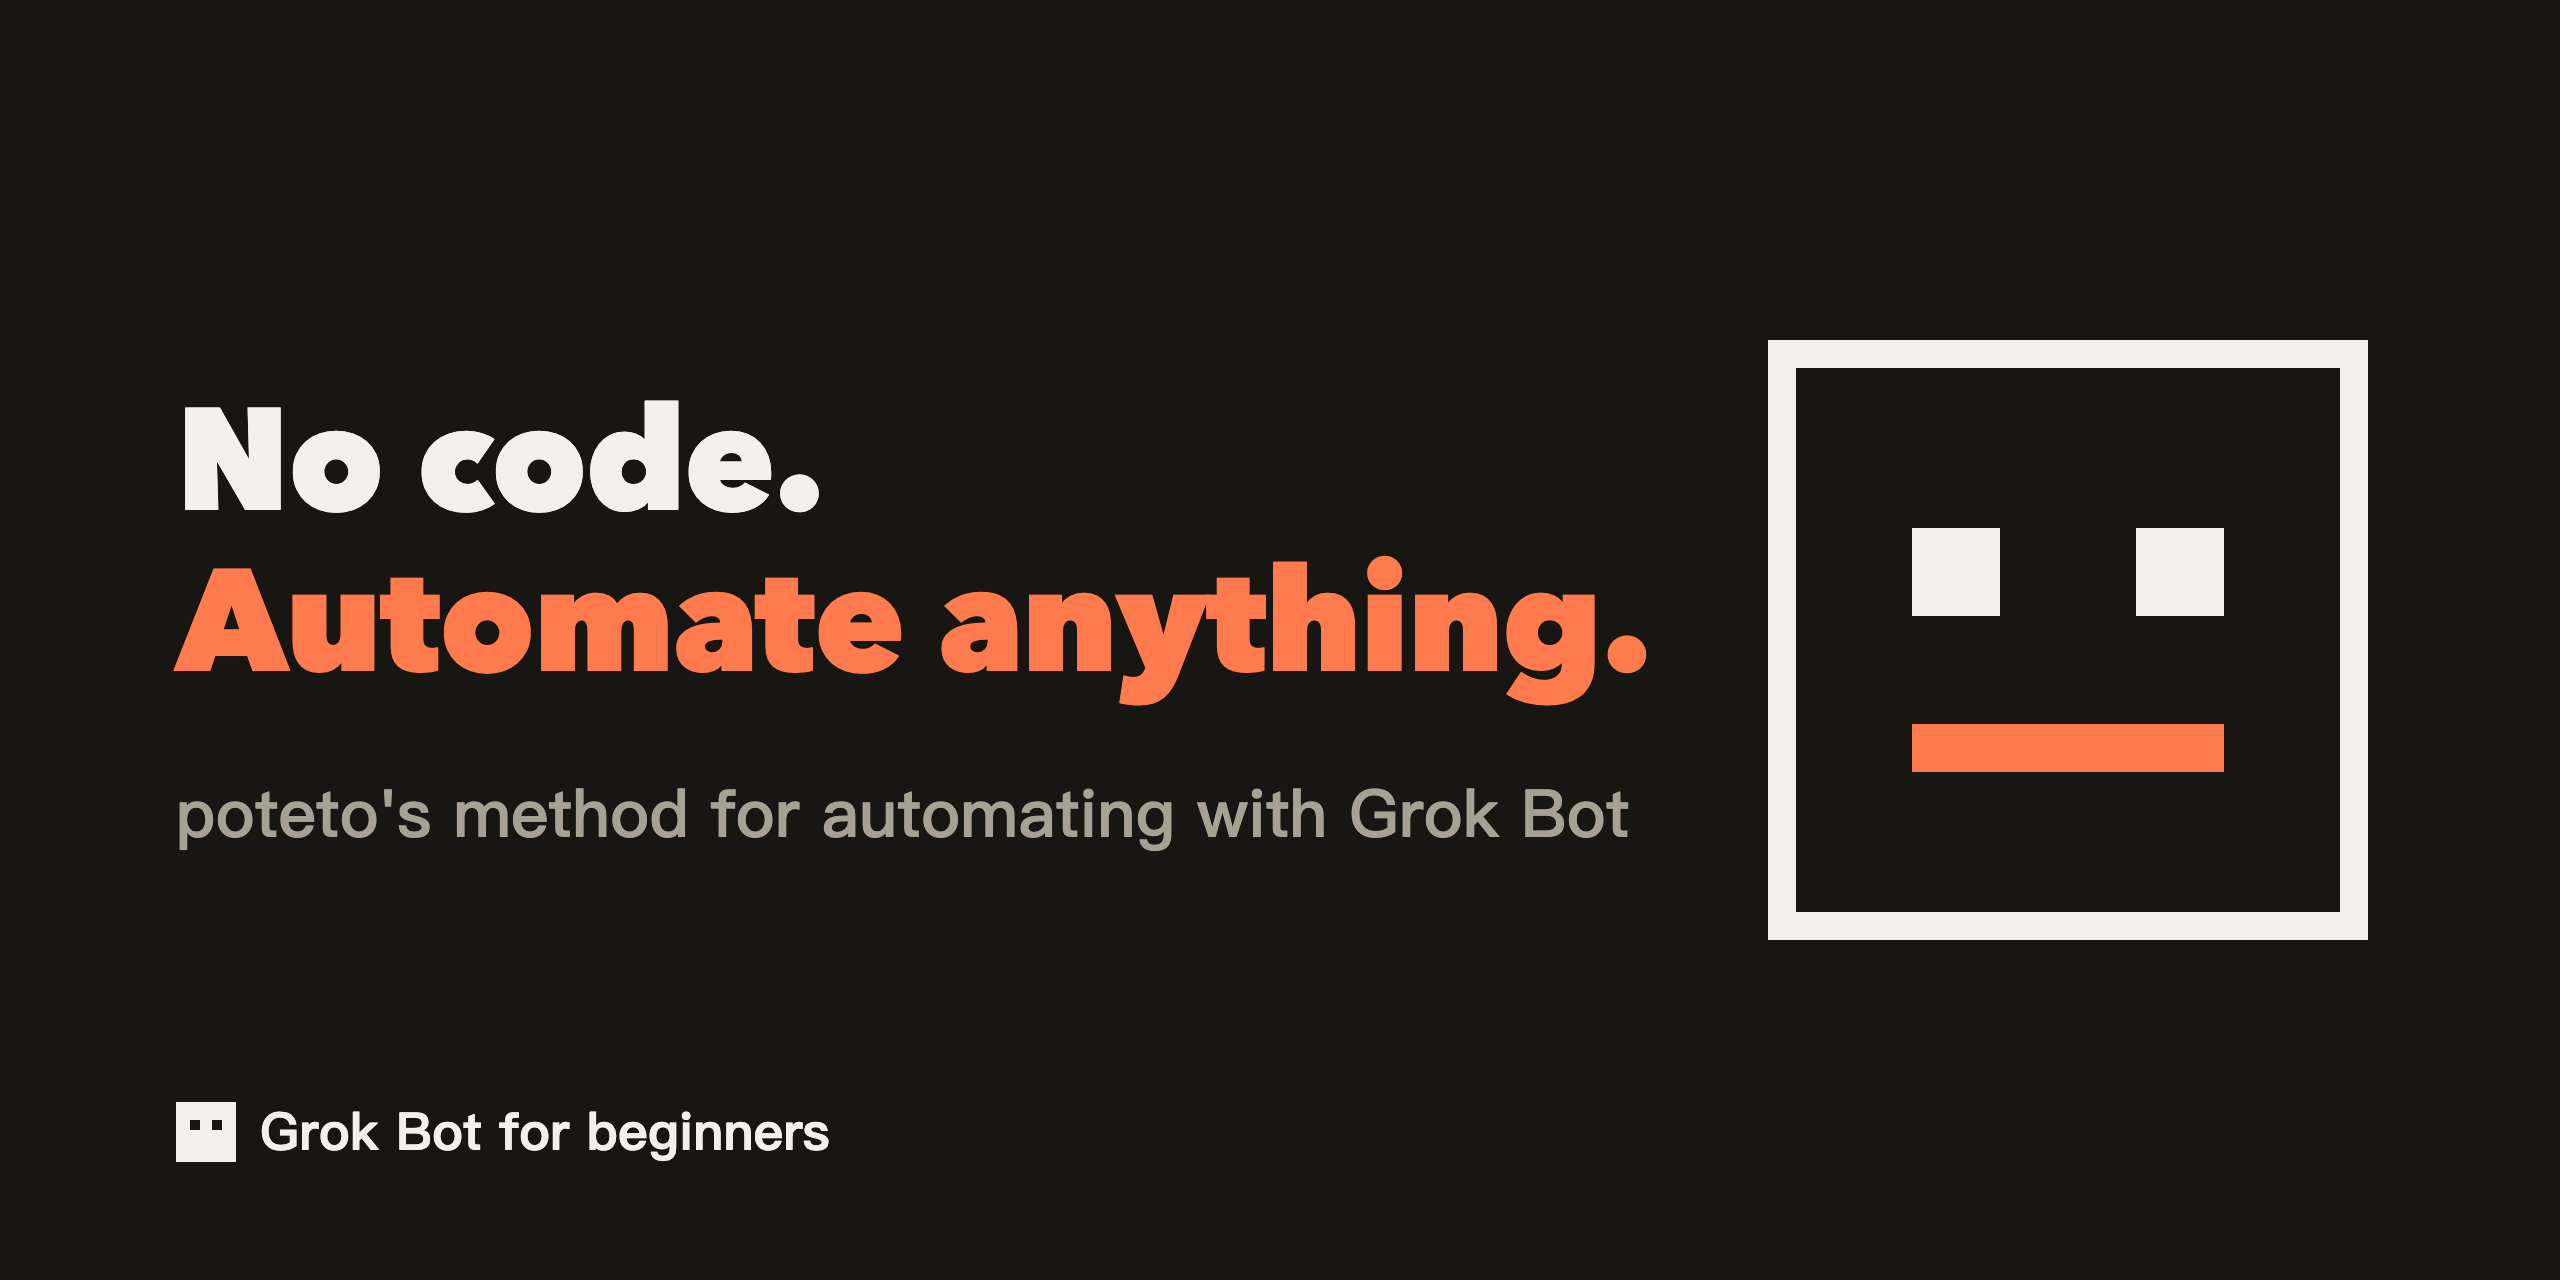
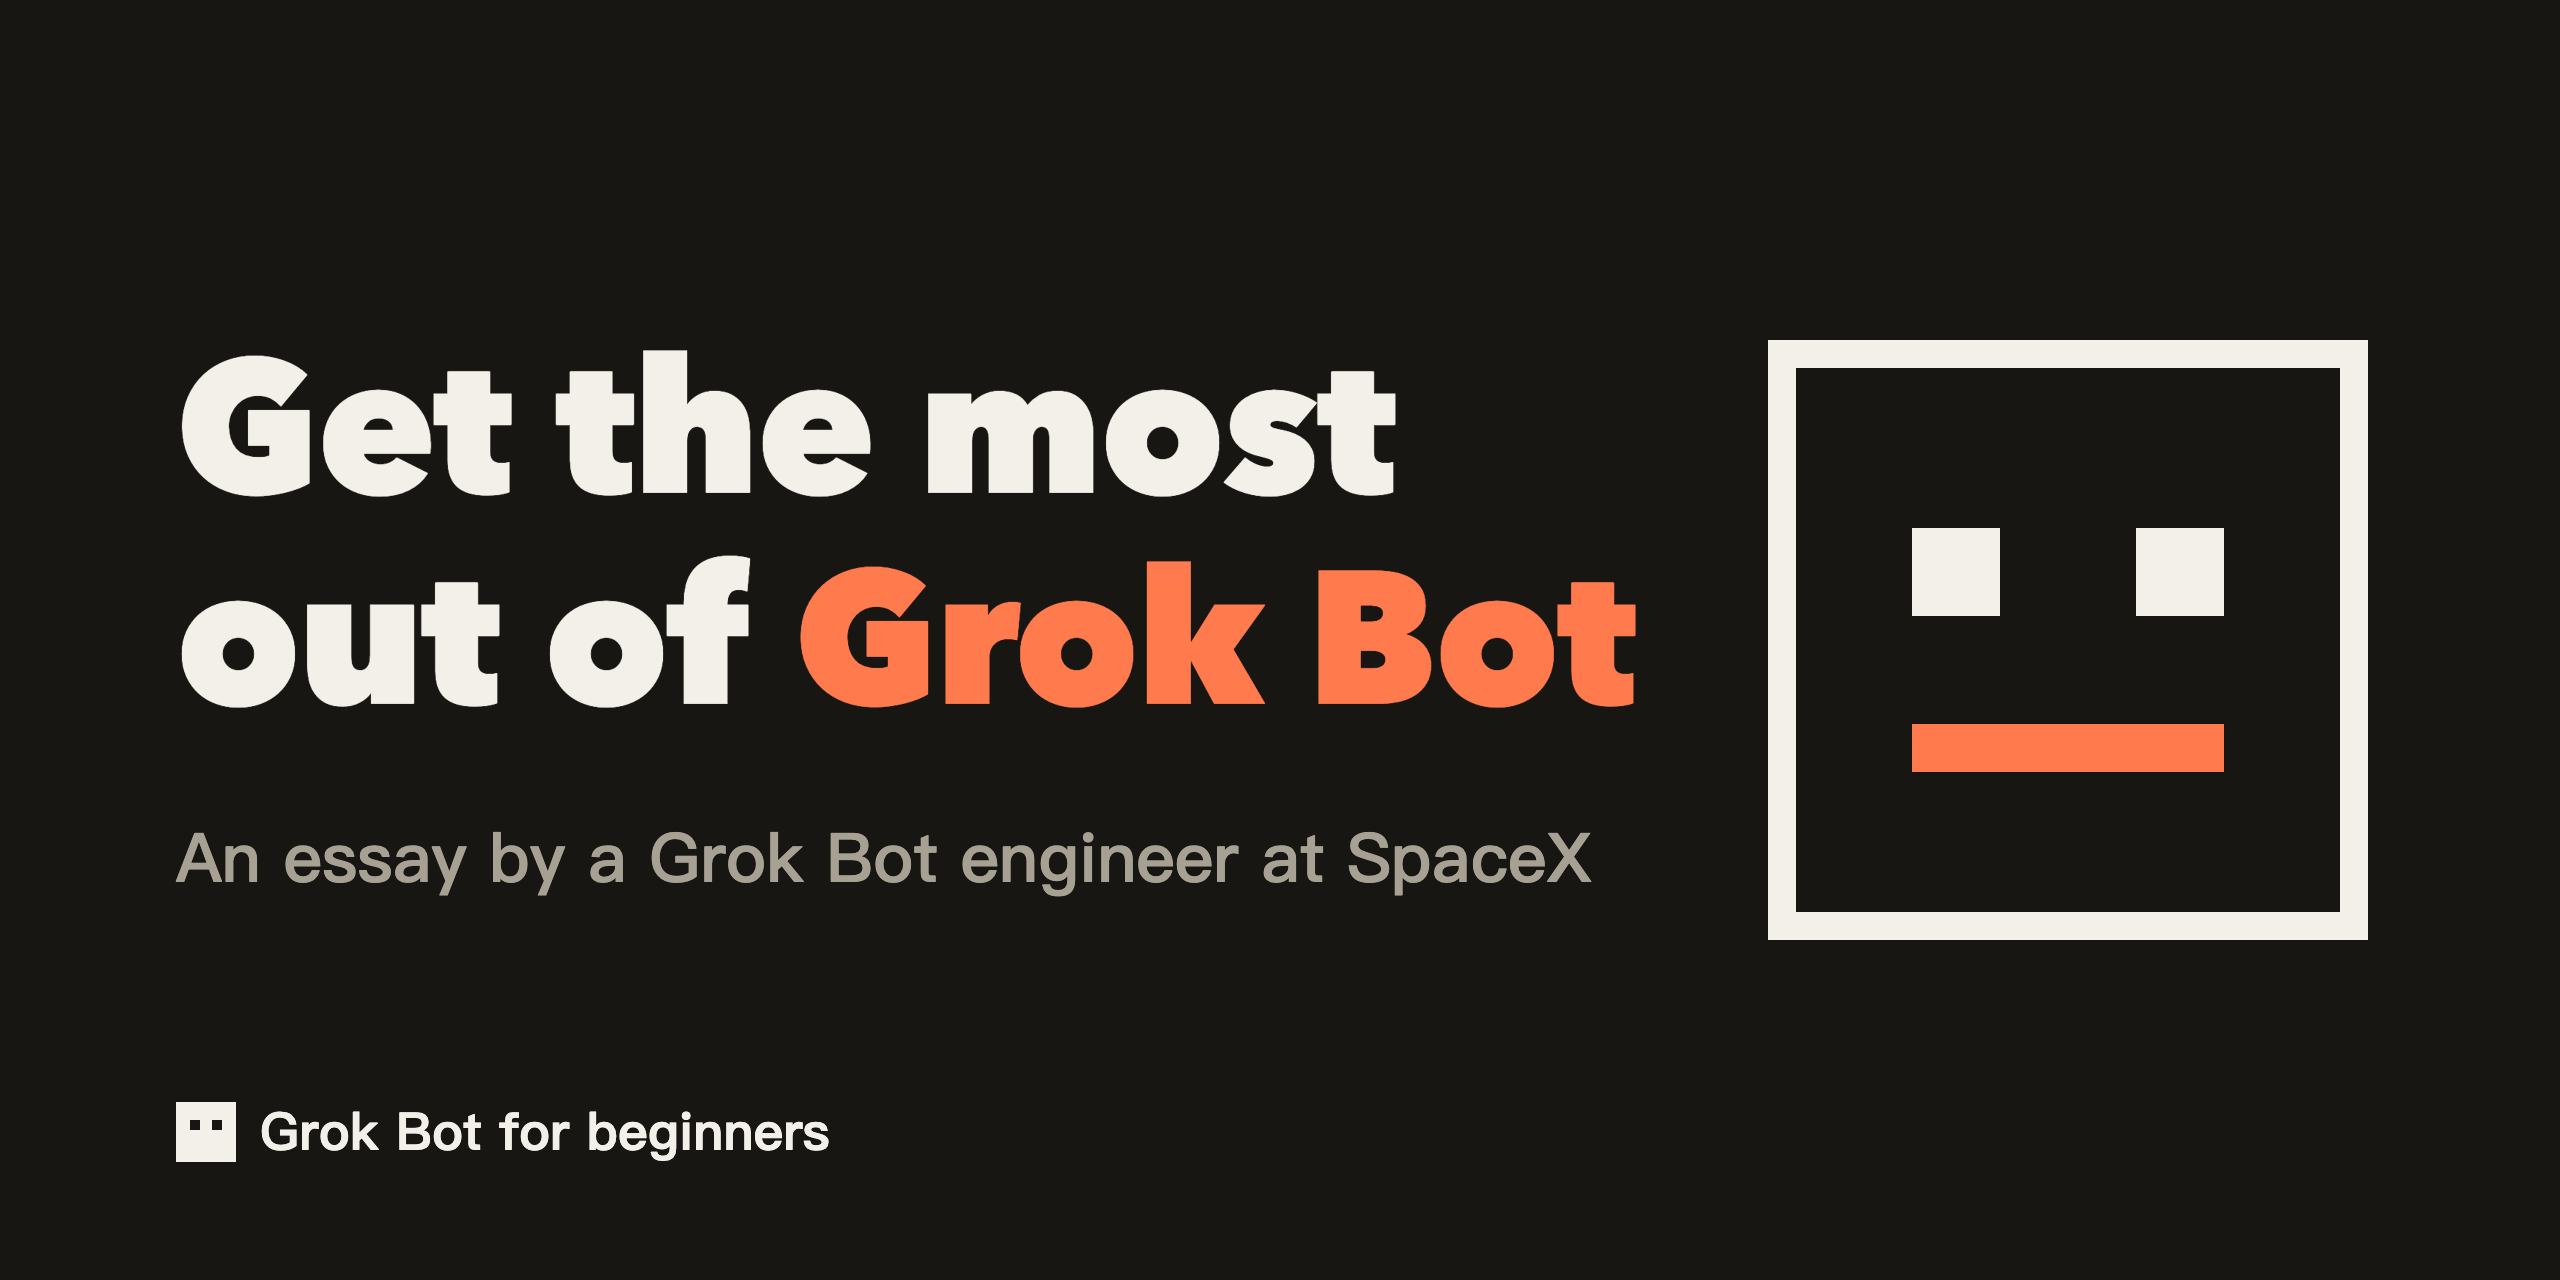
Cover, final: 如何爽用 Grok Bot / 思路决定出路 (Get the most out of Grok Bot), with the source line: an essay by a Grok Bot engineer at SpaceX, read closely in Chinese

Changed region(s): [[0.0625, 0.4375, 0.6562, 0.5625], [0.0625, 0.25, 0.5625, 0.4062], [0.0625, 0.625, 0.6562, 0.7188]]

diff --git a/tools/og.html b/tools/og.html
@@ -27,12 +27,12 @@
 <div class="bot"><i class="e1"></i><i class="e2"></i><i class="m"></i></div>
 <div class="brand"><b></b><span id="brand"></span></div>
 <script>
-  const SUB = { zh: "poteto 的 Grok Bot 自动化方法 · 中文精读", en: "poteto's method for automating with Grok Bot" };
+  const SUB = { zh: "SpaceX 的 Grok Bot 工程师长文 · 中文精读", en: "An essay by a Grok Bot engineer at SpaceX" };
   const BRAND = { zh: "Grok Bot 新手教程", en: "Grok Bot for beginners" };
-  // 定稿（2026-11-19）：文章说不会写代码也能自动化，标题 Automate Anything
+  // 定稿（2026-11-19）：利益点 + 观点 + 出处。作者在 SpaceX 做 Grok Bot（见作者 X 简介），本站是那篇长文的中文精读
   const COPY = {
-    zh: "不写代码，<br>也能<em>自动化一切</em>",
-    en: "No code.<br><em>Automate anything.</em>",
+    zh: "如何爽用 Grok Bot<br><em>思路决定出路</em>",
+    en: "Get the most<br>out of <em>Grok Bot</em>",
   };
   const q = new URLSearchParams(location.search);
   const lang = q.get("lang") === "en" ? "en" : "zh";
